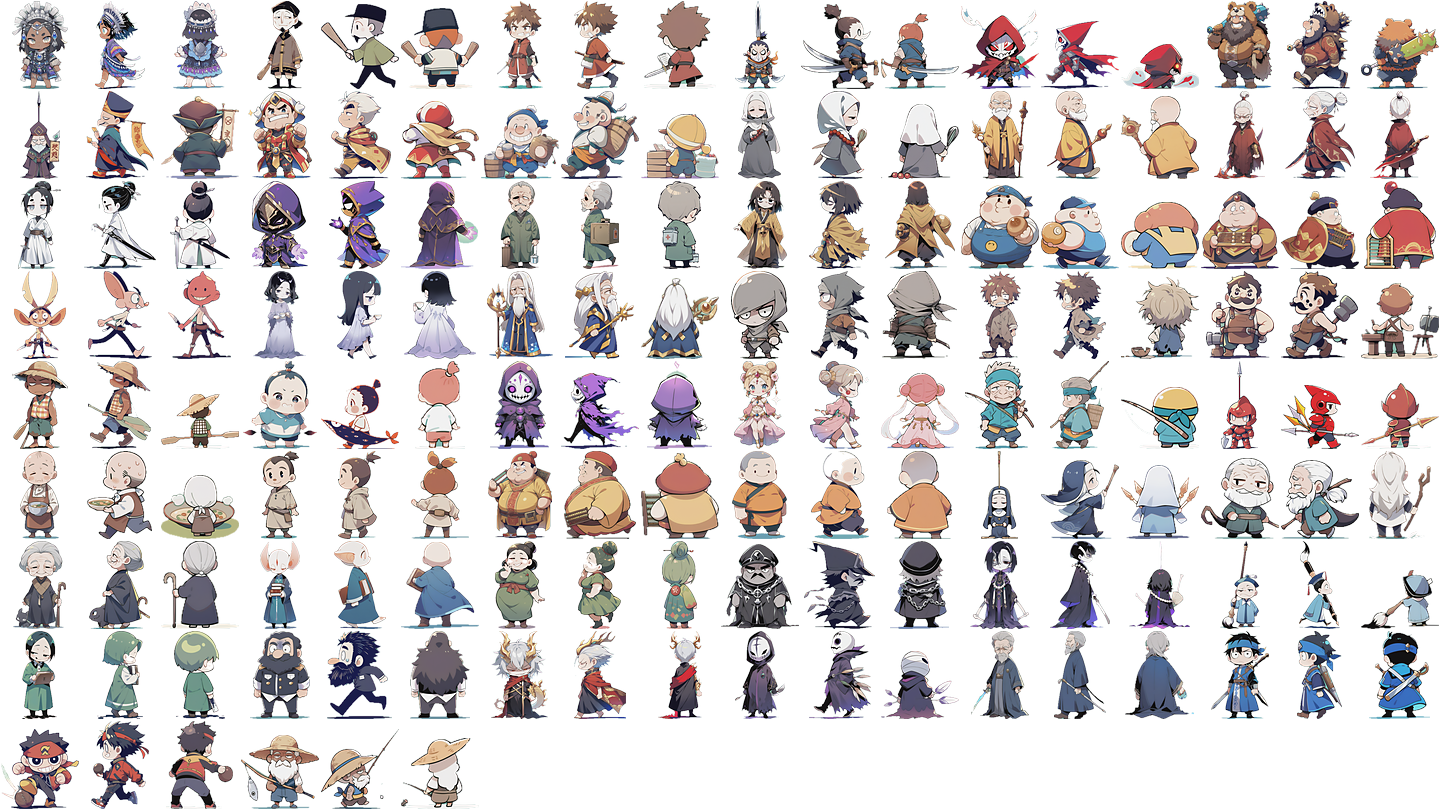
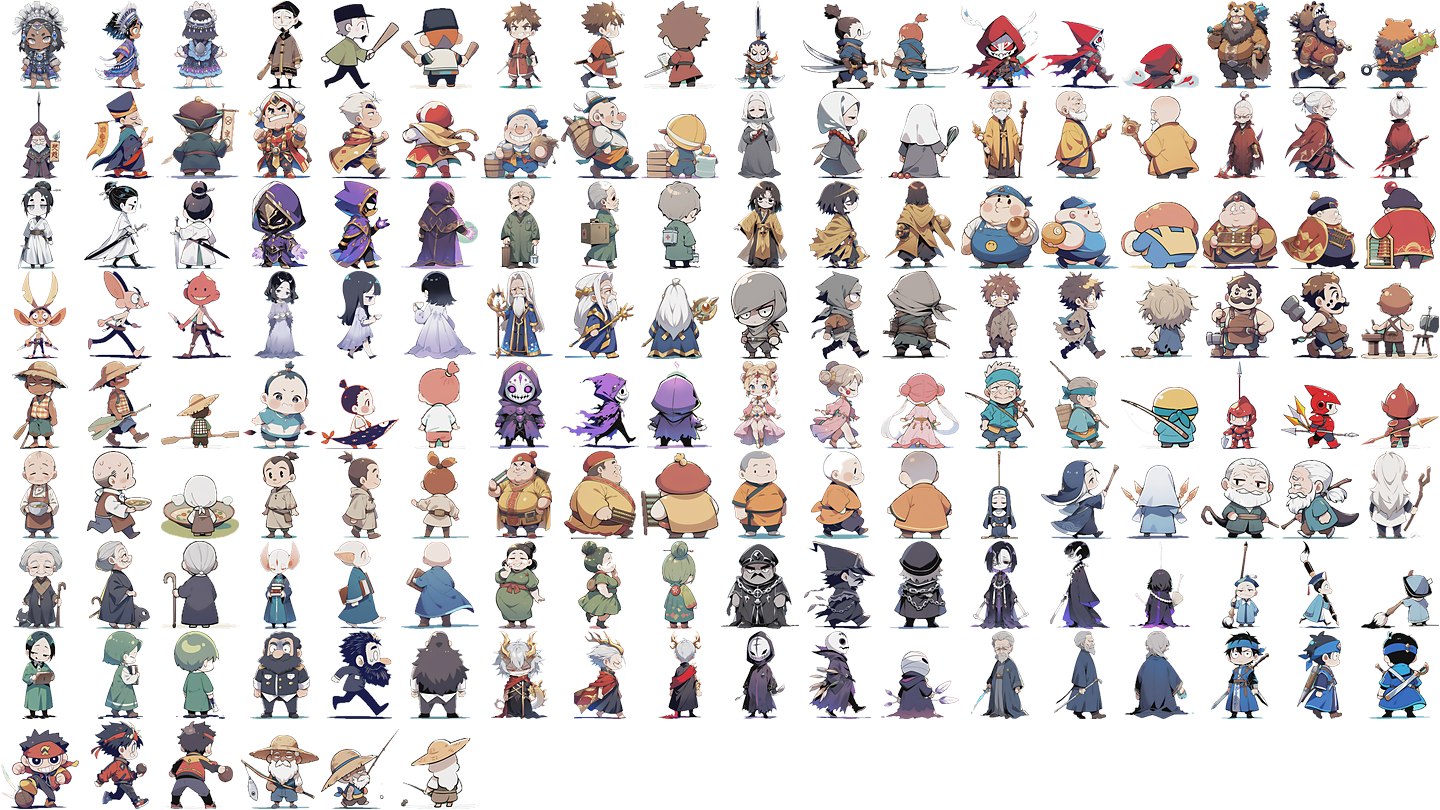
Fix painted side views walking backwards
Animagine paints every side view looking left (all 52 checked by eye; the earlier guess from the face's position
was wrong), so the cutter flips them all to face right and the prompt now asks for left.

diff --git a/tools/ai_chibi.py b/tools/ai_chibi.py
@@ -18,7 +18,7 @@ import ai_cut as C
 ROOT = os.path.dirname(os.path.dirname(os.path.abspath(__file__)))
 RAW = os.path.join(ROOT, 'art', 'chibi')
 OUT = os.path.join(ROOT, 'art', 'cut')
-VIEWS = {'front': 'front view, standing', 'side': 'from side, profile, walking', 'back': 'from behind, facing away, standing'}
+VIEWS = {'front': 'front view, standing', 'side': 'from side, profile, walking, facing left', 'back': 'from behind, facing away, standing'}
 H, MAXW = 88, 78
 
 
@@ -91,22 +91,6 @@ def main():
             cut_one(c)
 
 
-def faces_left(im):
-    """Which way a side view looks. In a chibi's profile the hair at the back of the head outweighs the face, so the
-    head's skin (or, with no skin showing, its whole mass) sits towards the back."""
-    a = np.asarray(im.convert('RGBA')).astype(int)
-    solid = a[:, :, 3] > 128
-    ys = np.where(solid.any(axis=1))[0]
-    top = solid.copy()
-    top[int(ys[0] + (ys[-1] - ys[0]) * 0.42):] = False
-    xs = np.where(top)[1]
-    mid = (xs.min() + xs.max()) / 2
-    R, G, B = a[:, :, 0], a[:, :, 1], a[:, :, 2]
-    skin = top & (R > 170) & (R > G + 8) & (G > B + 4) & (R - B > 35)
-    x = np.where(skin)[1].mean() if skin.sum() > 40 else xs.mean()
-    return x >= mid
-
-
 def cut_one(c):
     for v in VIEWS:
         src = os.path.join(RAW, f'{c}_{v}.png')
@@ -116,7 +100,7 @@ def cut_one(c):
             except OSError:   # cut off while being written: paint it again
                 os.remove(src)
                 continue
-            if im and v == 'side' and faces_left(im):   # every side view faces right
+            if im and v == 'side':   # painted looking left (the prompt asks for it); stored facing right
                 im = im.transpose(Image.FLIP_LEFT_RIGHT)
             if im:
                 im.save(os.path.join(OUT, f'{c}_c{v}.png'))
